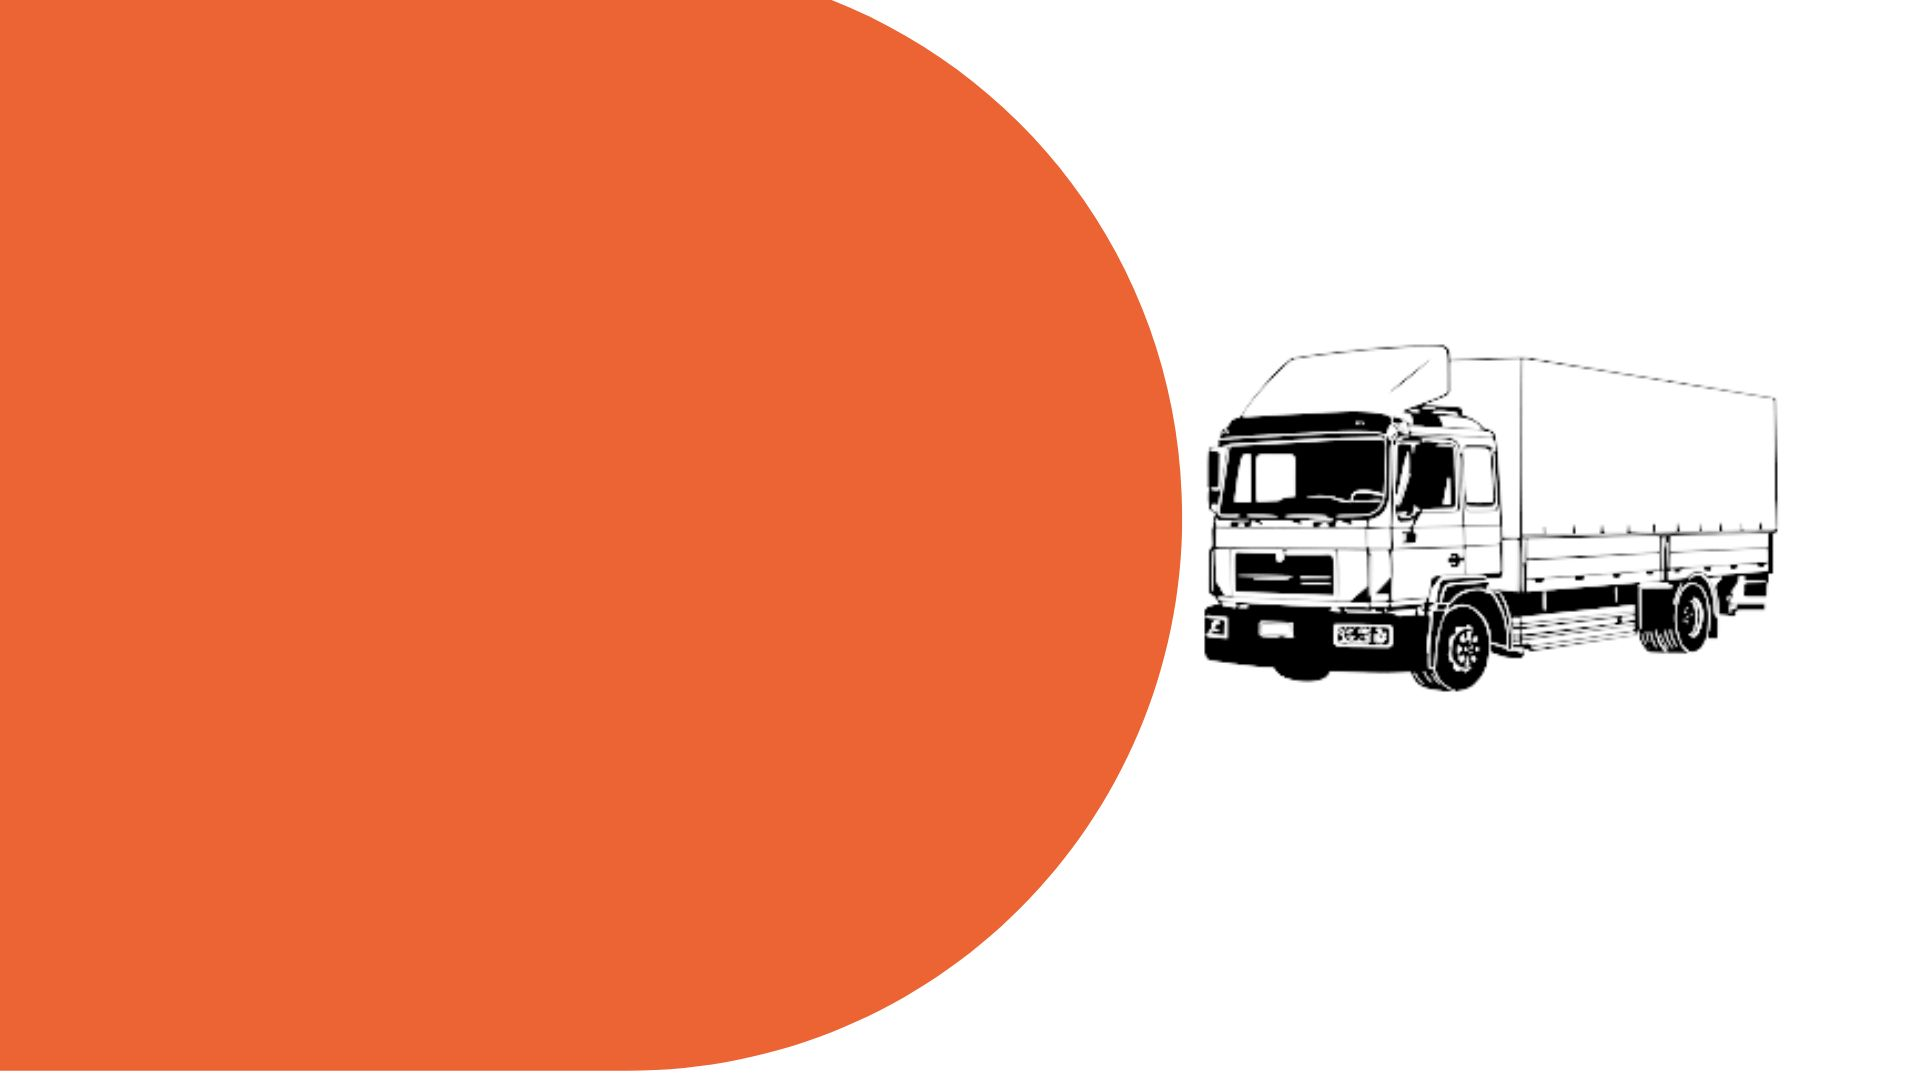
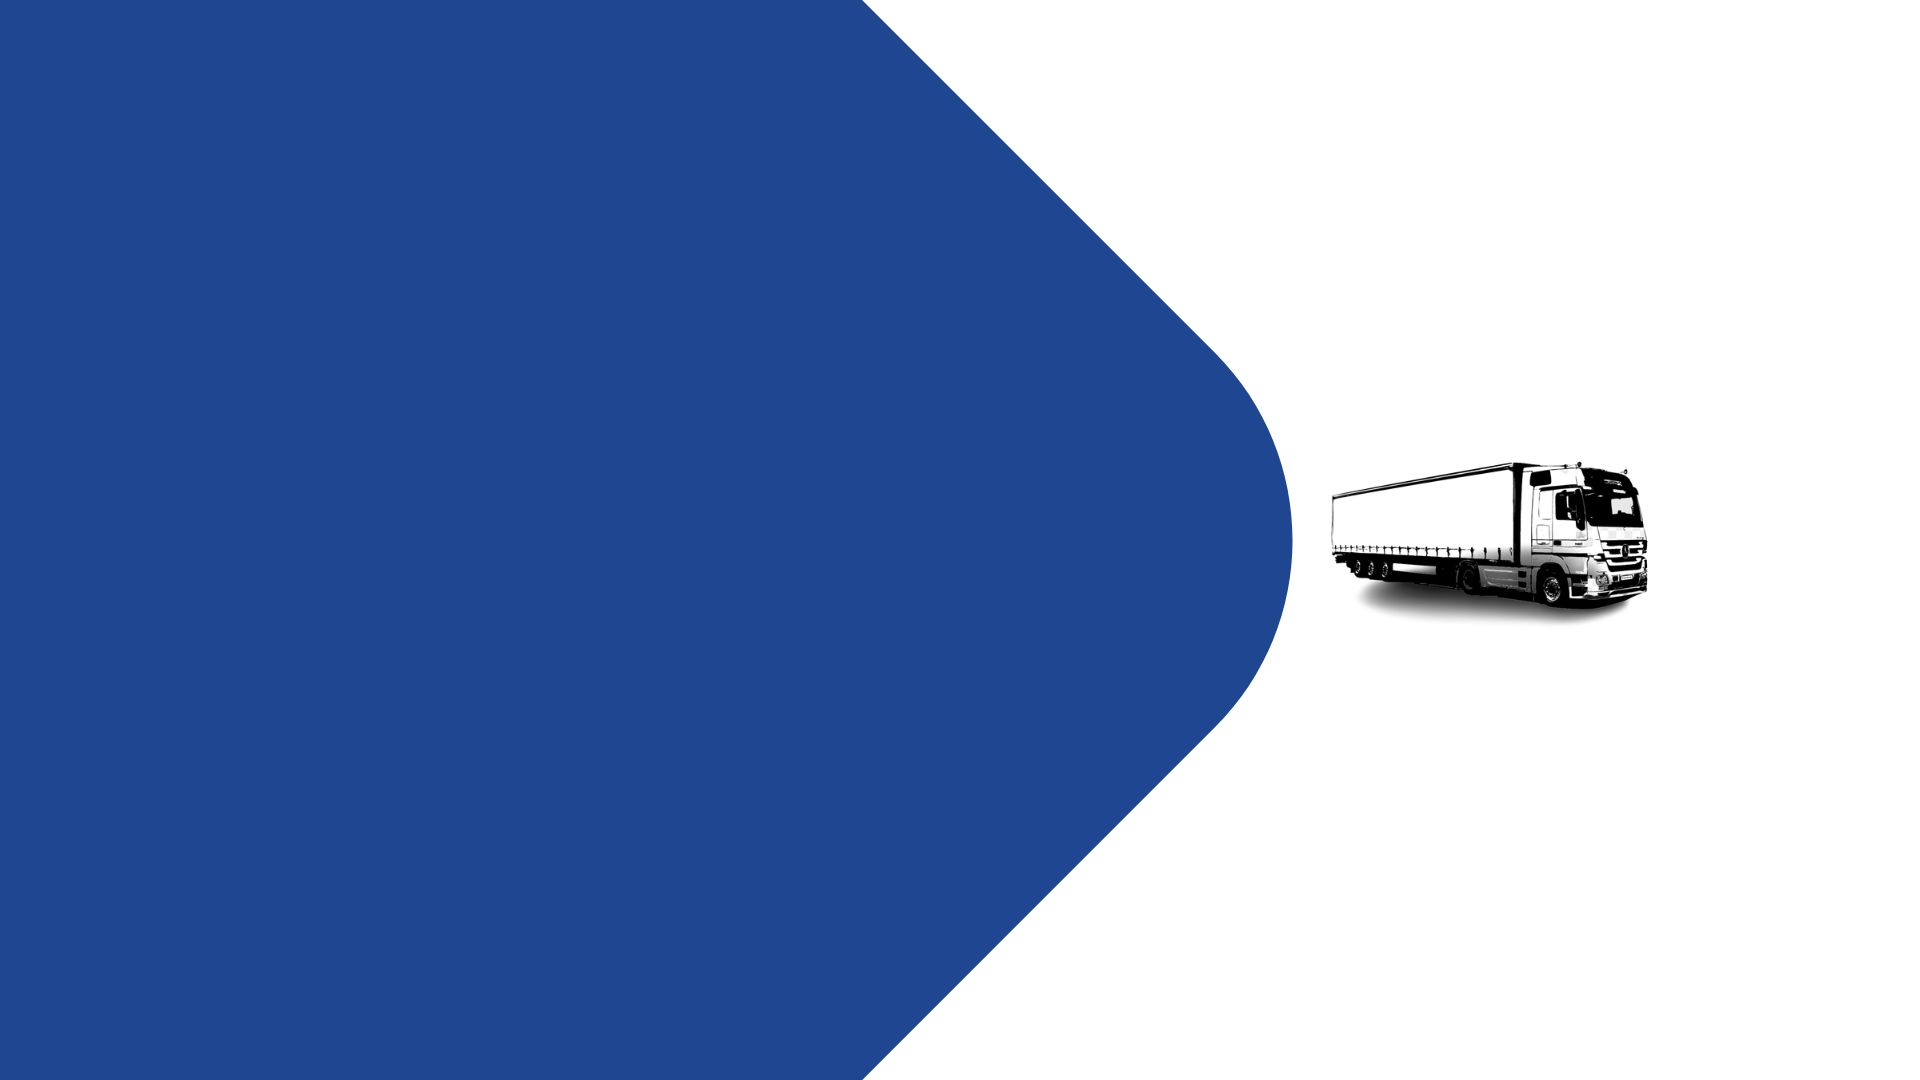
improvents

diff --git a/index.css b/index.css
@@ -17,9 +17,9 @@
 
 /* This is a class that add style to the HomePage of the Website */
 .mainpage {
-    padding-top: 6%;
+    padding-top: 10vw;
     overflow: hidden;
-    padding-bottom: 5%;
+    padding-bottom: 10vw;
 
 }
 
@@ -32,7 +32,7 @@
     font-family: 'Playfair Display', serif;
     margin-left: 10%;
 }
-
+    
 /* This is a class for homepage subheading We Carry We Care */
 .subheading {
 
@@ -44,7 +44,14 @@
     color: #b5b8bd;
 
 }
-
+.introduction{
+    color:gray;
+    width:10%;
+}
+.introductionHeading{
+    color:gray;
+background-color:white;
+}
 /* This class customizes the logo that is in the navbar New Falcon Hazara logo */
 .logo {
     margin-right: 2vw;
@@ -101,7 +108,7 @@ a {
 .dark {
    
     overflow: hidden;
-    background-image: url("images/truck5.jpg");
+    background-image: url("images/truck4.jpg");
     background-repeat: no-repeat;
     background-size: cover;
     background-position: center;
@@ -152,7 +159,7 @@ a {
 /* Class for Gallery Section  */
 .gallery {
     font-family: 'Playfair Display', serif;
-    color: #e76726;
+    color:#1F4690;
     text-align: center;
     padding: 3%;
 }

diff --git a/index.html b/index.html
@@ -102,6 +102,10 @@
 
                 <h2 class="heading ">New <span style="color:white;">Falcon</span><br> Hazara</h2>
                 <h3 class="subheading">We Carry We Care</h3>
+                <div class="itroducion">
+                    <h3 clas="introductionHeading">Inroduction</h3>
+                    <p class="introductionPara">New Falcon Hazara is a good's forwarding agency which transports different equipment to other parts of Pakistan.</p>
+                </div>
                 <a href="https://www.google.com/maps/place/New+falcon+Hazara+goods/@24.8705587,66.9587934,17z/data=!3m1!4b1!4m5!3m4!1s0x3eb31563f8dd329b:0x2b56487577976af4!8m2!3d24.8706199!4d66.9609552"
                     target="blank">
                     <button class="btn btn-lg visit " target="blank"> <i
